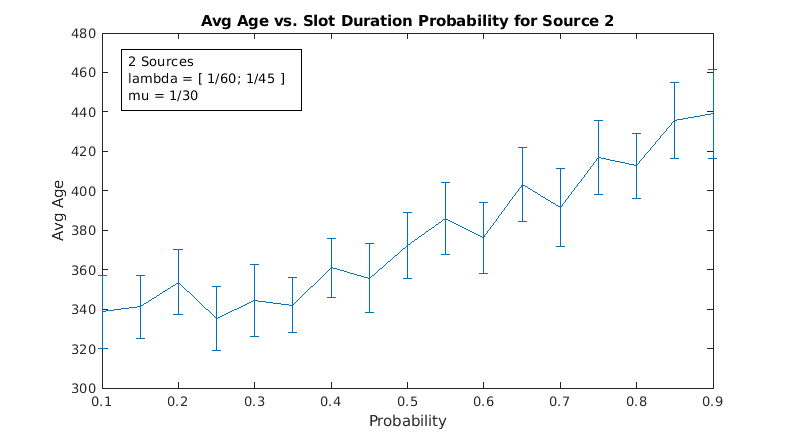
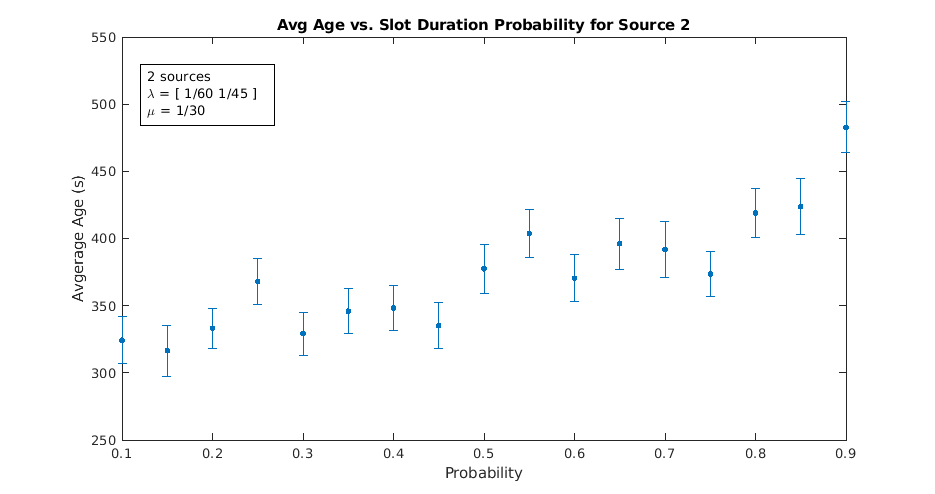
changed plot formatting

diff --git a/TDMA_Vary_Time_Slot.m b/TDMA_Vary_Time_Slot.m
@@ -59,6 +59,15 @@ for p = 1:length(probability)
 end
 
 % Plot Avg Age
+str = sprintf('%d sources\n', numSources);
+str = [str, '\lambda = [ '];
+for i = 1:numSources
+    str = [str, strtrim(rats(lambda(i))), ' '];
+end
+str = [str, ']'];
+str = [str, sprintf('\n')];
+str = [str, '\mu = ', strtrim(rats(mu))];
+
 for i = 1:numSources
     figure
     set(gcf, 'position', [369, 376, 935, 494])
@@ -67,7 +76,8 @@ for i = 1:numSources
 
     title(['Avg Age vs. Slot Duration Probability for Source ', num2str(i)]);
     xlabel('Probability');
-    ylabel('Avg Age');
+    ylabel('Avgerage Age (s)');
+    annotation('textbox', [0.15 0.75, 0.18, 0.12], 'String', str, 'FitBoxToText', 'on')
 end
 
 toc
@@ -77,7 +87,8 @@ figure
 set(gcf, 'position', [369, 376, 935, 494])
 errorbar(probability, avgWait, err, '.', 'MarkerSize', 10);
 
-title('Avg Wait vs. Slot Duration Probability');
+title('Avg Delay vs. Slot Duration Probability');
 xlabel('Probability');
-ylabel('Avg Wait Time');
+ylabel('Avgerage Delay (s)');
+annotation('textbox', [0.15 0.75, 0.18, 0.12], 'String', str, 'FitBoxToText', 'on')
 
